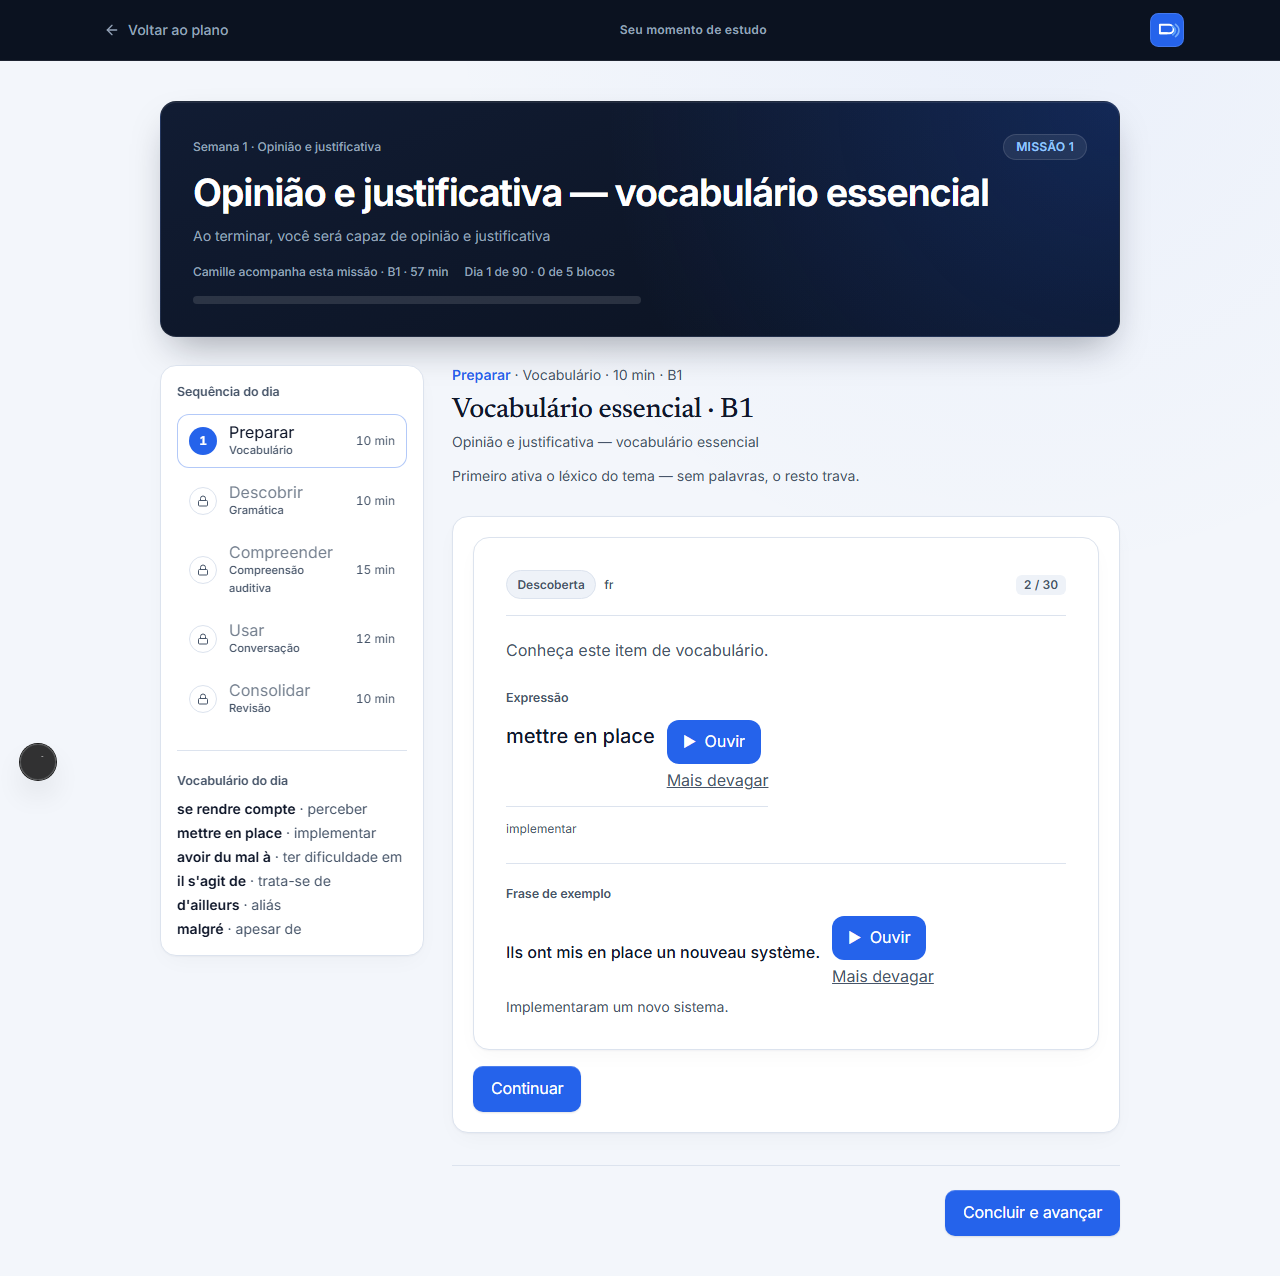
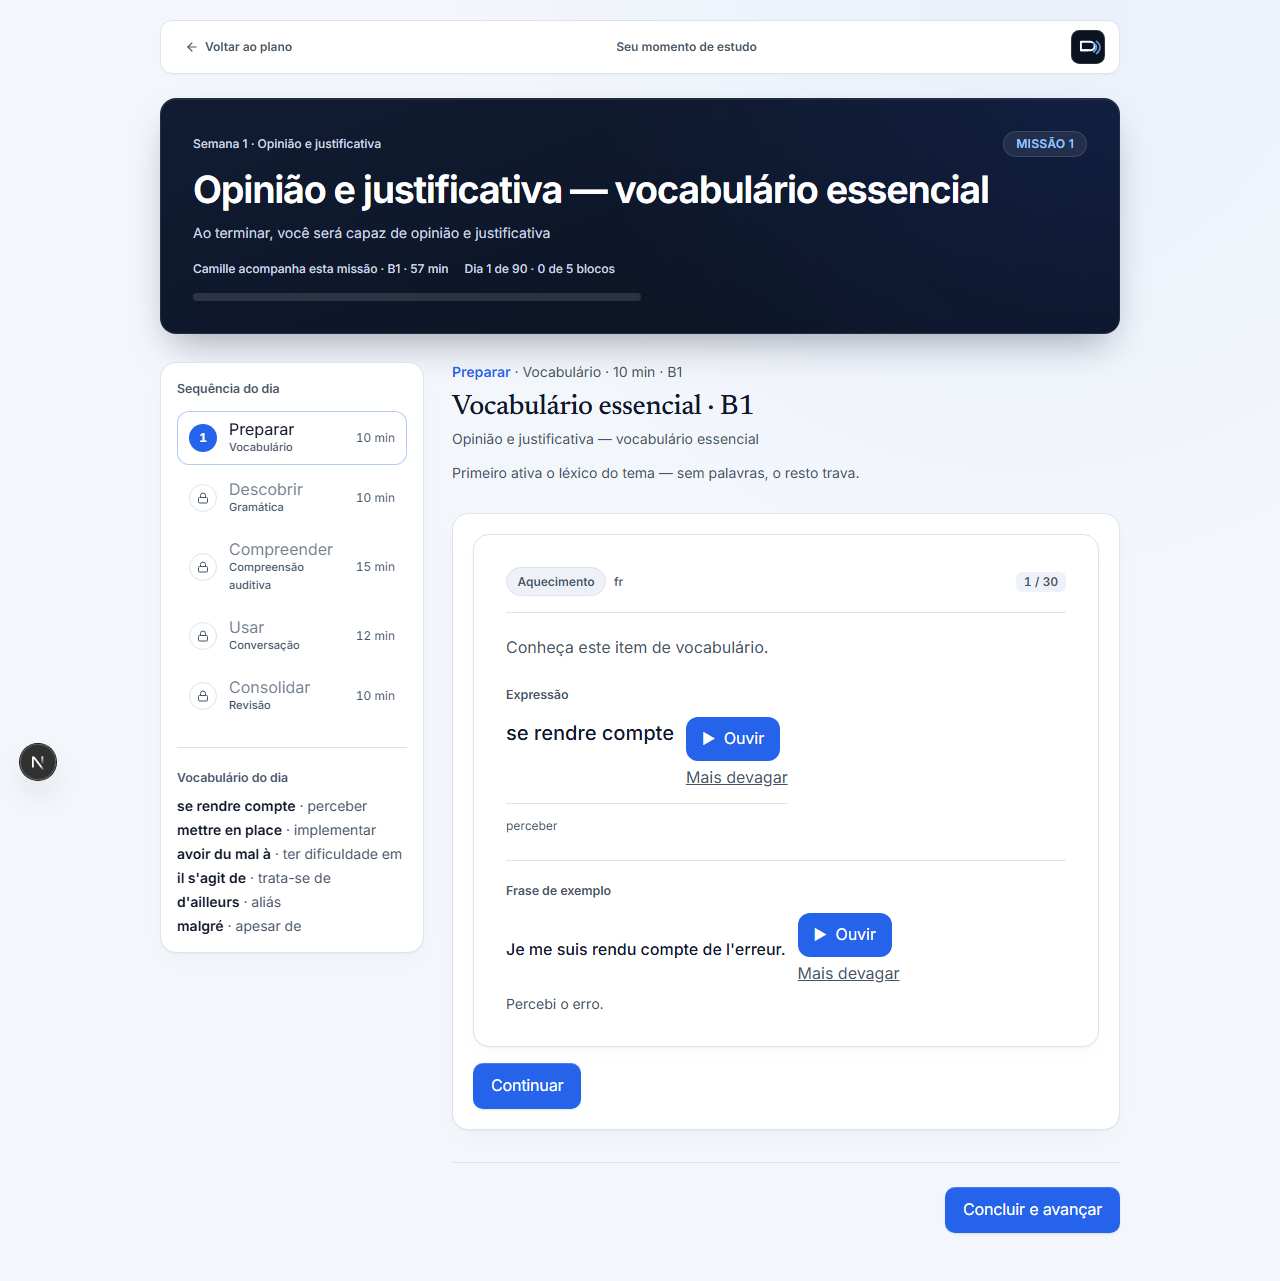
docs(ui): update round 5 screenshots, axe report and progress log

diff --git a/frontend/components/shell.tsx b/frontend/components/shell.tsx
@@ -360,11 +360,47 @@ export function AppShell({ children, tutor }: { children: ReactNode; tutor?: Rea
     /^\/placement-test\/[^/]+\/?$/.test(pathname);
   const assessment = pathname.startsWith("/placement-test/");
   const practice = pathname.startsWith("/learn/");
-  if (sessionFocus) {
+  if (focus || sessionFocus) {
     return (
-      <main id="main-content" tabIndex={-1} className="min-h-screen bg-background">
-        {children}
-      </main>
+      <div
+        className={
+          sessionFocus
+            ? "min-h-screen bg-background"
+            : "mx-auto flex min-h-[100dvh] w-full max-w-5xl flex-col px-5 pb-12 pt-5 md:px-8"
+        }
+      >
+        {!sessionFocus && (
+          <>
+            <a href="#main-content" className="skip-link">
+              Pular para o conteúdo
+            </a>
+            <header className="flex items-center justify-between gap-3.5 rounded-xl border border-border bg-surface px-3.5 py-2 shadow-[0_1px_2px_rgba(15,23,42,0.03)]">
+              <Link
+                href={assessment ? "/placement-test" : practice ? "/learn" : "/cronograma"}
+                className="inline-flex min-h-9 shrink-0 items-center gap-1.5 rounded-lg px-2.5 text-xs font-semibold text-text-secondary transition-colors hover:bg-[var(--surface-soft)] hover:text-text-primary"
+              >
+                <ArrowLeft className="size-3.5" aria-hidden />
+                {assessment
+                  ? "Voltar ao teste"
+                  : practice
+                    ? "Voltar à prática"
+                    : "Voltar ao plano"}
+              </Link>
+              <span className="hidden text-xs font-semibold text-text-secondary sm:block">
+                {assessment ? "Seu diagnóstico" : "Seu momento de estudo"}
+              </span>
+              <Logo showWordmark={false} />
+            </header>
+          </>
+        )}
+        <main
+          id="main-content"
+          tabIndex={-1}
+          className={sessionFocus ? "min-h-screen bg-background" : "study-content mt-6 w-full flex-1"}
+        >
+          {children}
+        </main>
+      </div>
     );
   }
   return (
@@ -390,33 +426,6 @@ export function AppShell({ children, tutor }: { children: ReactNode; tutor?: Rea
             {children}
           </main>
         </>
-      ) : focus ? (
-        <div className="mx-auto flex min-h-[100dvh] w-full max-w-5xl flex-col px-5 pb-12 pt-5 md:px-8">
-          <header className="flex items-center justify-between gap-3.5 rounded-xl border border-border bg-surface px-3.5 py-2 shadow-[0_1px_2px_rgba(15,23,42,0.03)]">
-            <Link
-              href={assessment ? "/placement-test" : practice ? "/learn" : "/cronograma"}
-              className="inline-flex min-h-9 shrink-0 items-center gap-1.5 rounded-lg px-2.5 text-xs font-semibold text-text-secondary transition-colors hover:bg-[var(--surface-soft)] hover:text-text-primary"
-            >
-              <ArrowLeft className="size-3.5" aria-hidden />
-              {assessment
-                ? "Voltar ao teste"
-                : practice
-                  ? "Voltar à prática"
-                  : "Voltar ao plano"}
-            </Link>
-            <span className="hidden text-xs font-semibold text-text-secondary sm:block">
-              {assessment ? "Seu diagnóstico" : "Seu momento de estudo"}
-            </span>
-            <Logo showWordmark={false} />
-          </header>
-          <main
-            id="main-content"
-            tabIndex={-1}
-            className="study-content mt-6 w-full flex-1"
-          >
-            {children}
-          </main>
-        </div>
       ) : (
         <>
           <Sidebar />

diff --git a/frontend/components/feedback-sheet.tsx b/frontend/components/feedback-sheet.tsx
@@ -37,7 +37,9 @@ export function FeedbackSheet({
           ref={titleRef}
           id={titleId}
           tabIndex={-1}
-          className={`text-lg font-semibold outline-none ${correct ? "text-success" : "text-danger"}`}
+          className={`text-lg font-semibold outline-none ${
+            correct ? "text-[var(--success-shadow)]" : "text-[var(--danger-shadow)]"
+          }`}
         >
           {correct ? "Correto." : "Resposta incorreta"}
         </h2>

diff --git a/docs/layout-v1/progress.md b/docs/layout-v1/progress.md
@@ -60,3 +60,26 @@ O dashboard, a trilha e a barra inferior aparecem nas capturas. A sessão, o fee
 - Especificação: `docs/superpowers/specs/2026-10-24-hybrid-precision-layout-design.md`.
 - Validação completa: `npm test` (51 arquivos, 396 passed, exit 0), `npm run typecheck` (exit 0), `npm run lint` (0 erros, 5 warnings anteriores).
 - Capturas `docs/layout-v1/after/` (14 PNGs desktop e mobile) atualizadas com o novo layout.
+
+## Rodada 5 — Ajustes pós-layout híbrido (2026-10-25)
+
+| Item | Status | Commit | Escopo |
+|---|---|---|---|
+| 1 cor do idioma no `.command-panel` | implementado | `867f675` | Brilho radial usa `color-mix(in srgb, var(--language-accent) 26%, transparent)` mantendo contraste AA >= 4,5:1 |
+| 2 dashboard sem espaço vazio | implementado | `11dda67` | Bloco leve abaixo dos links secundários com revisões pendentes de hoje (quantidade e próximo item) e trilha da semana, com estado vazio honesto |
+| 3 contraste real no navegador (Playwright + axe-core) | implementado | `8233d99` | `--command-muted` elevado para `#cbd5e1`, `MasteryProgressChart` adaptado ao `.command-panel` escuro e título do `FeedbackSheet` em `--danger-shadow`/`--success-shadow` |
+| 4 página do dia alinhada ao FocusFrame | implementado | `1ea9c0d` | Botão da prática interativa do dia trocado de «Enviar tentativa» para «Verificar» e cabeçalho «Voltar ao plano» alinhado ao trilho superior do `FocusFrame` |
+| 5 prática livre em modo foco mesmo sem itens devidos | implementado | `faf567d` | Quando `no_vocabulary_due`, abre `FocusFrame` com sessão curta de prática sem alterar nem inventar progresso de domínio |
+| 6 resumo da sessão com métricas reais | implementado | `eec5609` | Backend envia `correct_count`, `mastered_words` e `elapsed_minutes` reais no encerramento da sessão; frontend exibe somente o que vier preenchido |
+| 7 housekeeping `.gitignore` | implementado | `199dee4` | `backend/scripts/out/` adicionado ao `.gitignore` |
+
+### Achados do axe no navegador (`docs/layout-v1/axe-contrast-report.json`)
+- Antes das correções da Rodada 5, a auditoria com Playwright + `axe-core` detectou:
+  1. `MasteryProgressChart` dentro do `.command-panel` em `/progress`: `figcaption` (`#475569` sobre `#111c33`, contraste `2.23:1`) e `summary` «Ver dados» (`#2563eb` sobre `#111c33`, contraste `3.28:1`), além de `scrollable-region-focusable` em `390px` causado por `min-w-[20rem]` no `<svg>`.
+  2. `FeedbackSheet` aberto em estado de erro (`feedback`): `h2` «Resposta incorreta» com `#dc2626` sobre `#fbe9e9` (`bg-danger/10`) tinha contraste `4.12:1` (< 4,5:1).
+- Após elevar `--command-muted` para `#cbd5e1`, ajustar `MasteryProgressChart` para o fundo escuro e usar `--danger-shadow` (`#a51818`, contraste `6.45:1`) e `--success-shadow` (`#0f7a37`, contraste `5.12:1`) no título do `FeedbackSheet`: **0 violações** (`violations=0`, `flatContrast=0`, `lowCommandNodes=0`, contraste mínimo em superfícies escuras `>= 5.17:1`) nas 12 telas auditadas (`dashboard`, `cronograma`, `dia`, `sessao`, `feedback`, `progresso` em desktop `1280×800` e mobile `390×844`).
+
+### Suíte final da Rodada 5
+- Frontend: `npm test` **400 passed** (51 arquivos, exit 0), `npm run typecheck` exit 0, `npm run lint` exit 0 (0 erros, 5 warnings anteriores).
+- Backend: `py -3 -m pytest` nos 15 módulos de sessão/ensino/ciclo lexical (**262 passed**, exit 0).
+- Capturas `docs/layout-v1/after/` (14 PNGs) regeneradas incluindo o `FocusFrame`, o `FeedbackSheet` e o `SessionSummary` reais em `/learn/vocabulary`.
